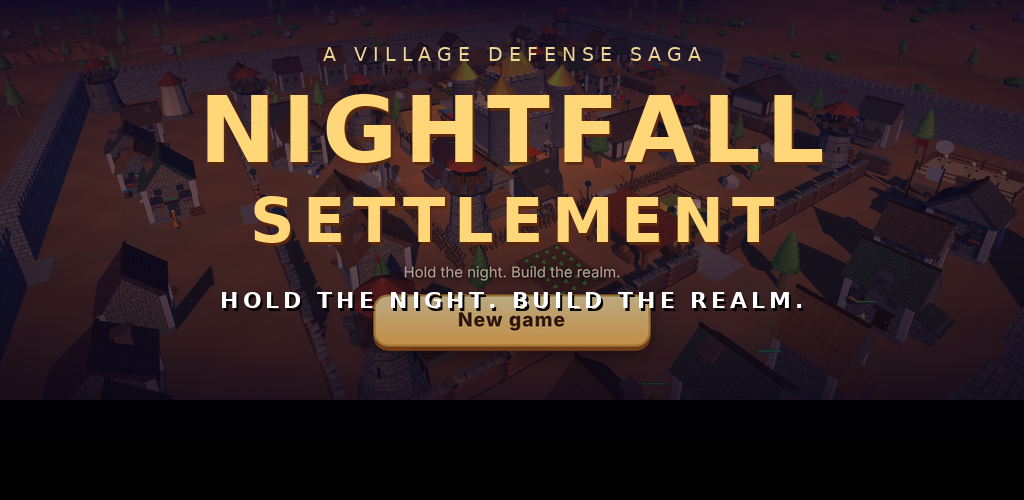
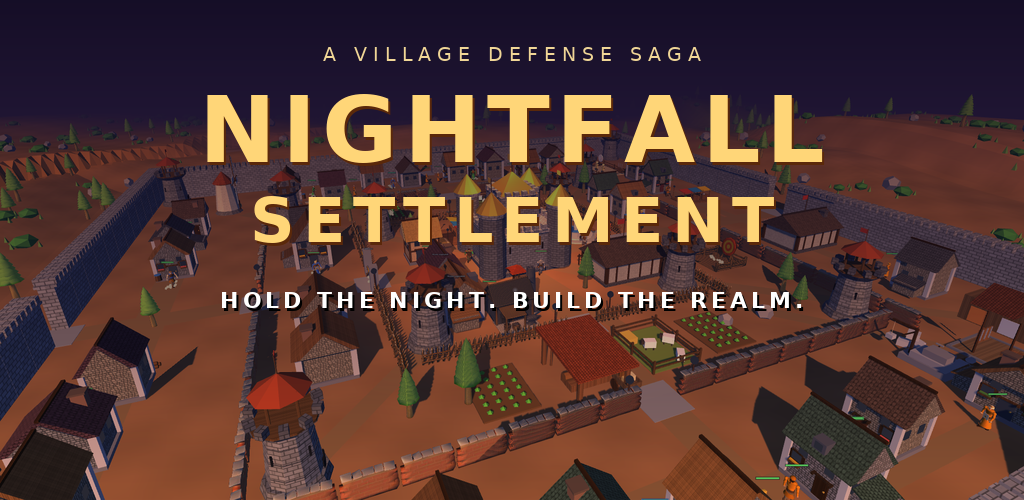
Play Store feature graphic and final asset set
Claude-Session: https://claude.ai/code/session_01EePJtqAFGyCVEibVosSErX

diff --git a/store/make_feature_graphic.py b/store/make_feature_graphic.py
@@ -1,12 +1,11 @@
 """Builds store/feature-graphic.png (1024x500) from a game screenshot plus the title. Run: python3 store/make_feature_graphic.py"""
 from PIL import Image, ImageDraw, ImageFont, ImageFilter
 import numpy as np
-src = Image.open('store/screenshots/1_title.png').convert('RGB')
+src = Image.open('store/_bg.png').convert('RGB')
 W, H = 1024, 500
 # crop the town area of the title screenshot, scale to cover
-crop = src.crop((0, 330, 1920, 1080))
-crop = crop.resize((W, int(crop.height * W / crop.width)), Image.LANCZOS)
-bg = crop.crop((0, max(0, (crop.height - H) // 2), W, max(0, (crop.height - H) // 2) + H)).resize((W, H))
+ch = round(src.width * H / W); top = max(0, (src.height - ch) // 2 + 40)
+bg = src.crop((0, top, src.width, min(src.height, top + ch))).resize((W, H), Image.LANCZOS)
 # dark gradient from the top and left so the text reads
 g = np.zeros((H, W, 3), dtype=np.float32); a = np.linspace(0.85, 0.0, H)[:, None] ** 1.2
 arr = np.asarray(bg, dtype=np.float32) * (1 - a[..., None]) + np.array([14, 8, 30], dtype=np.float32) * a[..., None]
